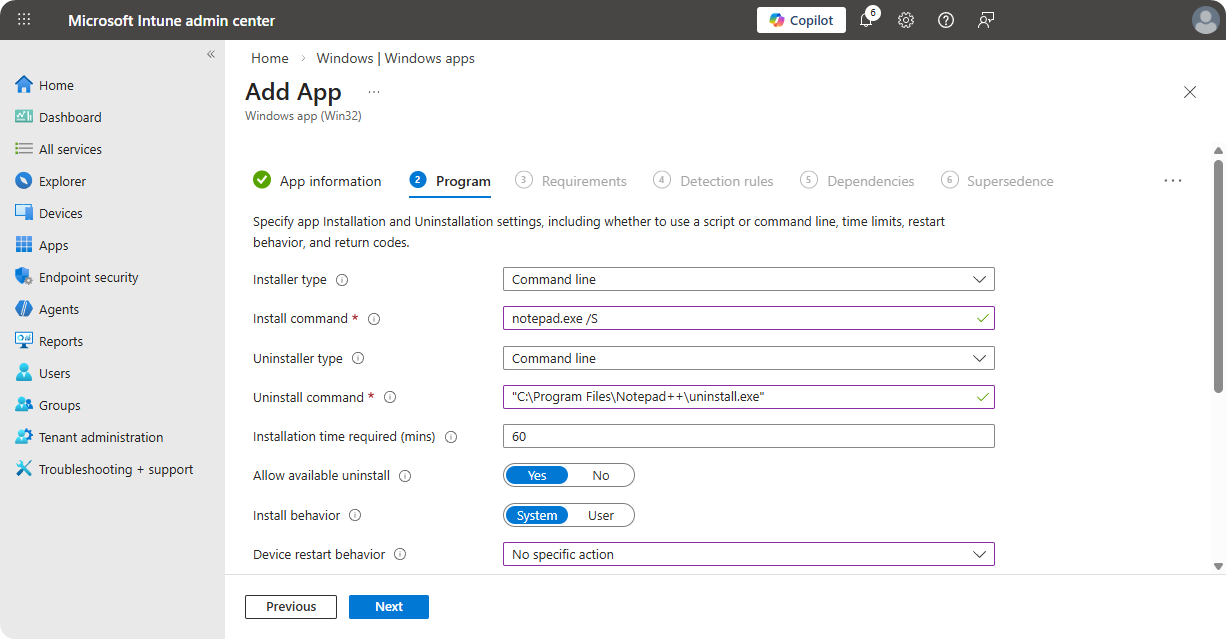
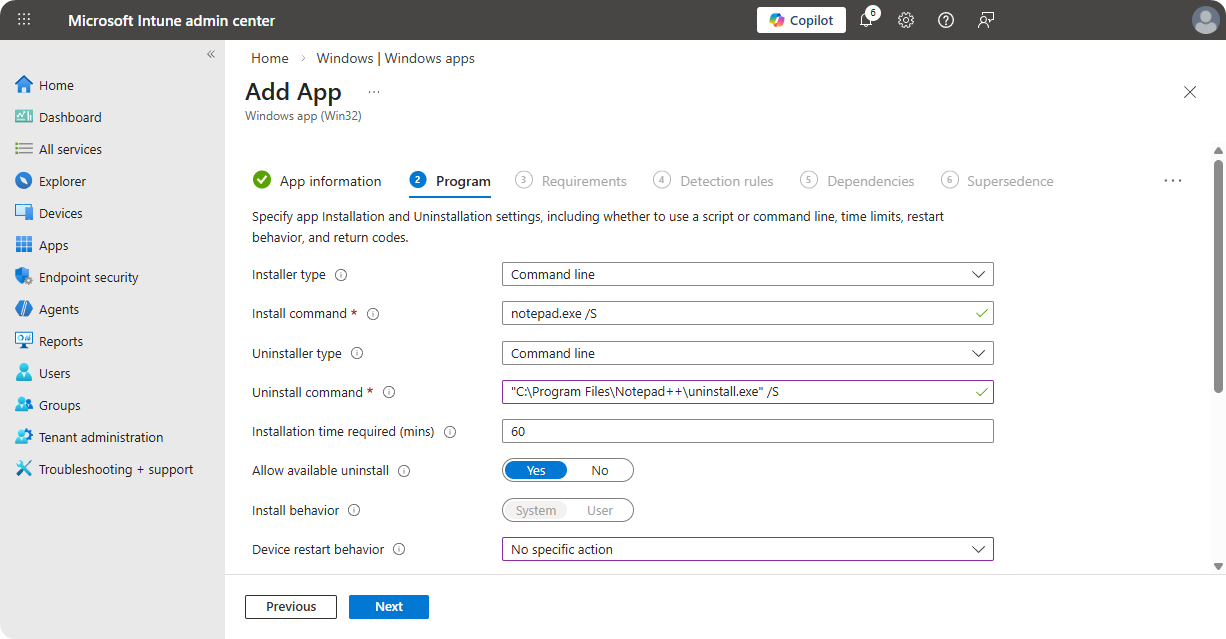
Quartz sync: Feb 9, 2026, 9:20 AM

diff --git a/content/Blog/0033 Deploying Notepad to Intune.md b/content/Blog/0033 Deploying Notepad to Intune.md
@@ -2,31 +2,32 @@
 title: "Deploying Notepad++ to Intune"
 created: 2026-02-09
 modified: 2026-02-09
-tags: ["SIEM", "KQL"]
-draft: true
+tags: ["intune"]
+draft: false
 ---
 
 ## Information
 
-Notepad++ infrastructure was recently compromised by state sponsored hackers which lead to some endpoints being compromised [*(You can read more about it here...)*](0032-notepad-security-incident-threat-hunting-using-kql). Notepad++ recommended us to update all our endpoints with the latest Notepad++ and in this article I'll go through doing that using Microsoft Intune.
+Notepad++ infrastructure was recently compromised by state sponsored hackers which lead to some endpoints being compromised. The Notepad++ creators recommended everyone to update their Notepad++ to the latest version 8.91 which comes with improved security controls for updates.
 
 ## Intunewin
 
-The Notepad++ application comes in `.exe` format which means we will need to create a `.intunewin` file using Microsoft Content Prep Tool. 
+The Notepad++ application comes in `.exe` format which means we will need to create an `.intunewin` file using the Microsoft Content Prep Tool. The `.intunewin` format will allow us to install executables with `.exe` formats through Intune.
 
-1. Download [Notepad++](https://notepad-plus-plus.org/)
-2. Download [IntuneWinAppUtil](https://github.com/microsoft/Microsoft-Win32-Content-Prep-Tool)
-3. Start **IntuneWinAppUtil** and enter the correct details.
+1. Download [Notepad++](https://notepad-plus-plus.org)
+2. Download [Microsoft Content Prep Tool](https://github.com/microsoft/Microsoft-Win32-Content-Prep-Tool)
+3. Start **IntuneWinAppUtil** and enter the following details. 
 
     ![[0033 Deploying-Notepad-to-Intune-01.png]]
 
-4. The **IntuneWinAppUtil** should generate a `.intunewin` file inside the output folder.
+4. **IntuneWinAppUtil** will generate an `.intunewin` file inside of the output folder.
+
     ![[0033 Deploying-Notepad-to-Intune-02.png]]
 
 ## Deployment
 
-1. Go to **[Microsoft Intune](https://intune.microsoft.com/)**
-2. Go to **Apps -> Windows -> Windows Apps**
+1. Go to **[Microsoft Intune](https://intune.microsoft.com/)**.
+2. Go to **Apps -> Windows -> Windows Apps**.
 
     ![[0033 Deploying-Notepad-to-Intune-03.png]]
 
@@ -43,7 +44,7 @@ The Notepad++ application comes in `.exe` format which means we will need to cre
 
 5. Use the following configuration on Program section.
     * **Install Command:** `notepad.exe /S` 
-    * **UUninstall Command:** `"C:\Program Files\Notepad++\uninstall.exe" /S`.
+    * **Uninstall Command:** `"C:\Program Files\Notepad++\uninstall.exe" /S`
 
     ![[0033 Deploying-Notepad-to-Intune-07.png]]
 
@@ -75,3 +76,5 @@ The Notepad++ application comes in `.exe` format which means we will need to cre
 9. Create the application profile.
 
 ## Conclusion
+
+The Notepad++ installer comes with `.exe` format installer instead of `.msi` and that forces us to use [Microsoft Content Prep Tool](https://github.com/microsoft/Microsoft-Win32-Content-Prep-Tool) to create an `.intunewin` file. However, after the `.intunewin` file is generated all that needs to be done is setting up the profile.
